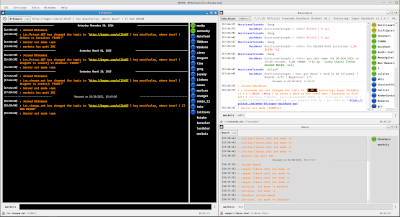
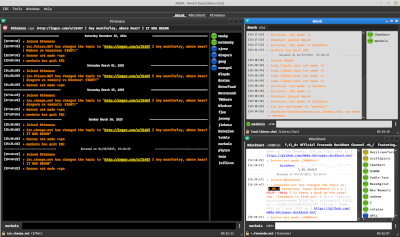
New Linux screenshot, featuring "dark mode" and some of the newer features

diff --git a/README.md b/README.md
@@ -2,6 +2,7 @@
 
 
 
+
 <p align="center">
   <img src="https://github.com/nutjob-laboratories/merk//raw/main/graphics/banner.png"><br>
   <b><big>Open Source IRC Client</big></b><br>
@@ -23,7 +24,7 @@ Join me on the official **MERK** IRC channel, **#merk** on the Libera Chat netwo
  </p>
  <p align="center">
  <center><a href="https://github.com/nutjob-laboratories/merk//raw/main/graphics/screenshot_linux_big.png"><img src="https://github.com/nutjob-laboratories/merk//raw/main/graphics/screenshot_linux2.png"></a></center></br>
-  <center><i><small>MERK connected to <a href="http://www.efnet.org/">EFnet</a>, <a href="https://freenode.net/">Freenode</a>, and <a href="https://libera.chat/">Libera</a> on Linux Mint 20.2.</small></i></center>
+  <center><i><small>MERK connected to <a href="http://www.efnet.org/">EFnet</a>, <a href="https://freenode.net/">Freenode</a>, and <a href="https://libera.chat/">Libera</a> on Linux Mint 20.2 in "dark mode", featuring the "windowbar" and the "fusion" widget set.</small></i></center>
   </p>
   
 # Features
